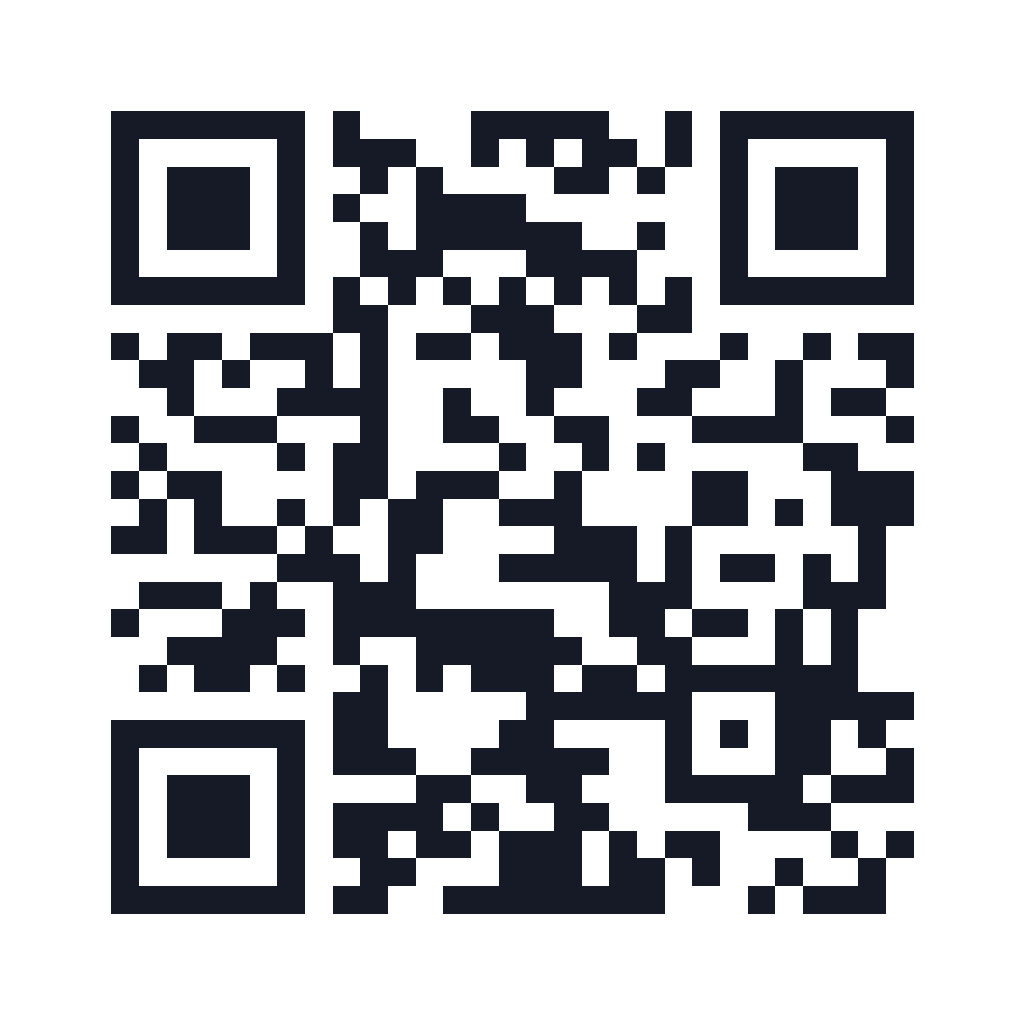
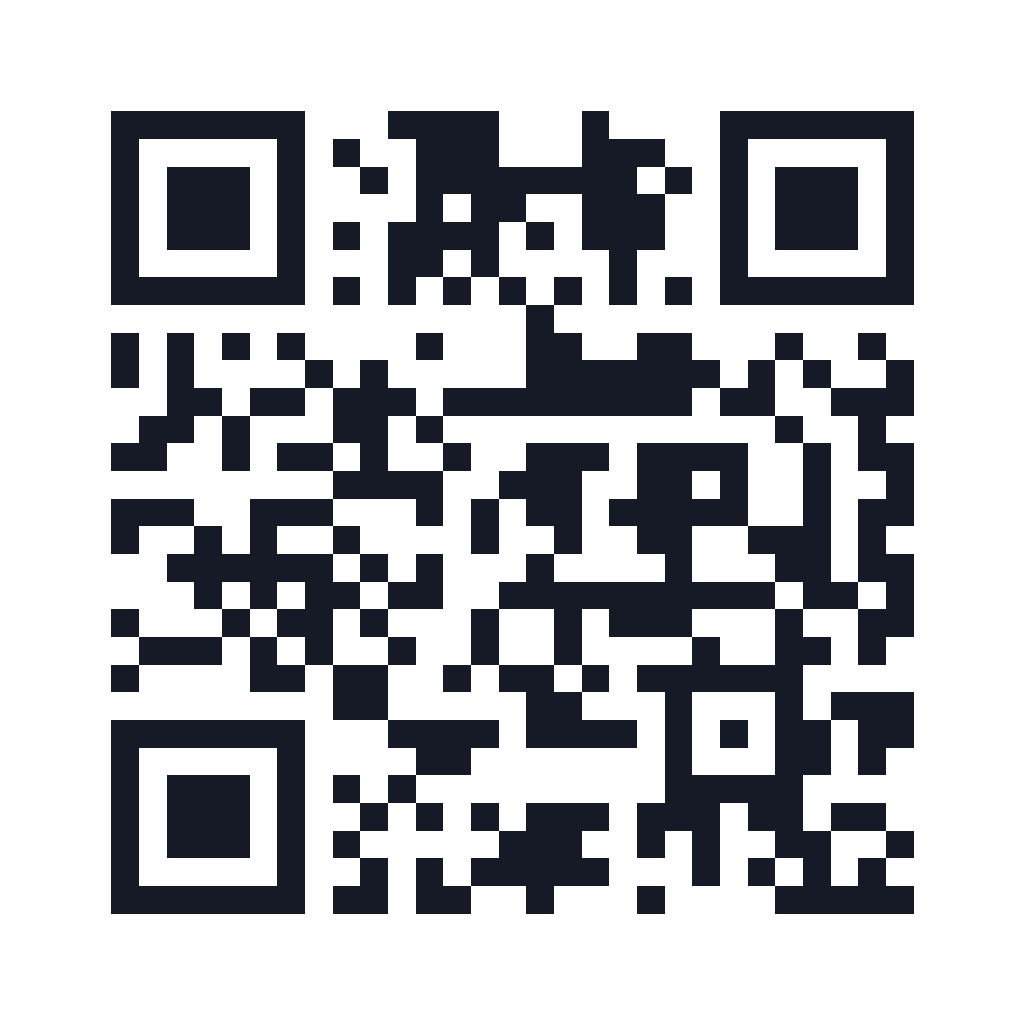
브랜드명 Edulleo(에둘러)로 변경, 배포 경로 /edulleo/
- 앱: 제목·홈·첫 화면·manifest 이름을 Edulleo로, 로고·아이콘 D→E
- 배포 경로 /detour/ → /edulleo/ (저장소 이름 변경, Vite base·manifest·Playwright·SW 주석)
- QR 재생성: https://01044402345o-beep.github.io/edulleo/ (디코드 일치)
- README·PRD·task·목업·시연 QR 슬라이드 표기 변경
- 저장 키·캐시 이름 등 내부 식별자는 유지
- 검증: Codex R1(M1 L1) → R2 미해결 0, vitest 859·E2E 75 통과

diff --git a/mockup/index.html b/mockup/index.html
@@ -3,7 +3,7 @@
 <head>
 <meta charset="utf-8">
 <meta name="viewport" content="width=device-width, initial-scale=1">
-<title>Daejeon Detour · Interactive Mockup</title>
+<title>Edulleo · Interactive Mockup</title>
 <link rel="preconnect" href="https://fonts.googleapis.com">
 <link rel="preconnect" href="https://fonts.gstatic.com" crossorigin>
 <link href="https://fonts.googleapis.com/css2?family=Fraunces:ital,opsz,wght@0,9..144,500;0,9..144,700;1,9..144,500&display=swap" rel="stylesheet">
@@ -333,8 +333,8 @@ button{font:inherit;color:inherit;background:none;border:0;cursor:pointer}
   <aside class="side">
     <div class="brand">
       <div class="mark">
-        <div class="logo">D</div>
-        <div><h1>Daejeon <i>Detour</i></h1><div class="tag">대전 디투어 · 인터랙티브 목업</div></div>
+        <div class="logo">E</div>
+        <div><h1>Edulleo <i>Daejeon</i></h1><div class="tag">Edulleo(에둘러) · 인터랙티브 목업</div></div>
       </div>
       <div class="ver"><span class="chip-s g">DEMO v0.1</span><span class="chip-s">원도심 코스</span><span class="chip-s">EN · JA · ZH</span></div>
     </div>
@@ -559,13 +559,13 @@ const topbar=(title,right='')=>`<div class="topbar"><button class="icb" data-a="
 
 const R={};
 R.lang=()=>`<div class="lang-hero"><div class="glow"></div><div class="glow2"></div>${status(true)}<div class="in">
-  <div class="logo">D</div><div class="nm">Daejeon<br><i>Detour</i></div><div class="sub">${t('welcome')}</div>
+  <div class="logo">E</div><div class="nm">Edulleo<br><i>Daejeon</i></div><div class="sub">${t('welcome')}</div>
   <div class="lang-list"><div style="font-size:12px;font-weight:700;letter-spacing:1.4px;color:#8f97ab;margin-bottom:4px">${t('chooseLang').toUpperCase()}</div>
   ${Object.entries(LANGS).map(([k,v])=>`<button class="lang-opt ${S.lang===k?'on':''}" data-a="pickLang" data-l="${k}"><span class="fl">${v.f}</span><span><div class="a">${v.a}</div><div class="b2">${v.b}</div></span><span class="ck"></span></button>`).join('')}
   <button class="btn b-acc" style="margin-top:10px" data-a="go" data-to="home" data-log="'${LANGS[S.lang].a}'로 시작 → 홈">${t('start')} →</button></div></div></div>`;
 
 R.home=()=>{const ph=P('ssd').phrases[1];return`${status()}<div class="view">
-  <div class="row pad gap10" style="padding-top:4px"><div style="width:42px;height:42px;border-radius:13px;background:linear-gradient(135deg,#f58a5c,#c24e22);display:grid;place-items:center;color:#fff;font-weight:800">D</div><div><div style="font-weight:800;font-size:16px">Daejeon Detour</div><div class="t-xs">Daejeon, Korea</div></div><div class="sp"></div><span class="pill p-line">${I.pin} Jungang-ro</span></div>
+  <div class="row pad gap10" style="padding-top:4px"><div style="width:42px;height:42px;border-radius:13px;background:linear-gradient(135deg,#f58a5c,#c24e22);display:grid;place-items:center;color:#fff;font-weight:800">E</div><div><div style="font-weight:800;font-size:16px">Edulleo</div><div class="t-xs">Daejeon, Korea</div></div><div class="sp"></div><span class="pill p-line">${I.pin} Jungang-ro</span></div>
   <div class="hello" style="margin-top:20px"><div class="h-xl">${t('hi')}<br>${t('whereTo')}</div></div>
   <div class="search">${I.search}${t('search')}</div>
   <div class="sec"><div class="h-m">${t('pickHub')}</div><button class="lk" data-a="go" data-to="course" data-log="'지도 보기' → 원도심 코스 지도">${t('seeMap')}</button></div>

diff --git a/deck/index.html b/deck/index.html
@@ -3,9 +3,9 @@
 <head>
 <meta charset="utf-8">
 <meta name="viewport" content="width=device-width, initial-scale=1">
-<title>대전 디투어 시연 QR</title>
+<title>Edulleo 시연 QR</title>
 <!-- 시연 슬라이드 1장 (task.md T3.3, PRD F-17). 16:9 고정 비율, 화면 크기에 맞춰 확대·축소.
-     QR 원본: ../app/public/qr.svg (내용 https://01044402345o-beep.github.io/detour/, reviews/T3.3_qr.md 디코드 검증)
+     QR 원본: ../app/public/qr.svg (내용 https://01044402345o-beep.github.io/edulleo/, reviews/T3.3_qr.md 디코드 검증)
      외부 글꼴·스크립트 없음 — 시연장 네트워크가 없어도 그대로 열림. 색은 app/src/styles/tokens.css 값. -->
 <style>
   :root {
@@ -42,16 +42,16 @@
 </script>
 </head>
 <body>
-  <main class="slide" aria-label="대전 디투어 시연 접속 안내">
+  <main class="slide" aria-label="Edulleo 시연 접속 안내">
     <section>
       <div class="eyebrow">지역문제 해결 아이디어 · 시연</div>
-      <h1>대전 디투어</h1>
-      <div class="en">Daejeon Detour</div>
+      <h1>Edulleo</h1>
+      <div class="en">에둘러 · Daejeon walks</div>
       <p class="tagline">외국인 방문객용 대전 원도심 동선·주문 카드·현장 한국어 웹앱</p>
-      <p class="url"><small>휴대폰으로 QR을 찍거나 주소를 입력하세요</small>https://01044402345o-beep.github.io/detour/</p>
+      <p class="url"><small>휴대폰으로 QR을 찍거나 주소를 입력하세요</small>https://01044402345o-beep.github.io/edulleo/</p>
     </section>
     <figure class="qr">
-      <img src="../app/public/qr.svg" alt="QR 코드: https://01044402345o-beep.github.io/detour/">
+      <img src="../app/public/qr.svg" alt="QR 코드: https://01044402345o-beep.github.io/edulleo/">
       <p>카메라로 스캔 → 바로 체험</p>
     </figure>
   </main>

diff --git a/app/playwright.config.ts b/app/playwright.config.ts
@@ -1,7 +1,7 @@
 import { defineConfig } from '@playwright/test';
 
 // Phase 2 E2E (coordinator 담당, task.md 0.1절·Phase 2 E2E).
-// - 대상: `npm run build`(base /detour/) 후 `vite preview`
+// - 대상: `npm run build`(base /edulleo/) 후 `vite preview`
 // - 브라우저: 설치된 Microsoft Edge(channel msedge). Playwright 브라우저는 내려받지 않습니다.
 // - 뷰포트: 기본 390×844(전 시나리오) / 360×780(전 시나리오) / 430×932(시나리오 1·5만) / 데스크톱 1280×800(/report만)
 // - 각 시나리오는 3개 언어(en·ja·zh)마다 따로 돌고, 음성(TTS·STT)은 e2e/speechMock.ts의 목을 씁니다.
@@ -24,7 +24,7 @@ export default defineConfig({
   expect: { timeout: 7_000 },
   reporter: [['list'], ['json', { outputFile: 'test-results/e2e.json' }]],
   use: {
-    baseURL: 'http://localhost:4173/detour/',
+    baseURL: 'http://localhost:4173/edulleo/',
     trace: 'retain-on-failure',
     screenshot: 'only-on-failure',
     // Phase 3: 서비스 워커(오프라인 프리캐시) 동작 허용
@@ -32,7 +32,7 @@ export default defineConfig({
   },
   webServer: {
     command: 'npm run build && npm run preview -- --port 4173 --strictPort',
-    url: 'http://localhost:4173/detour/',
+    url: 'http://localhost:4173/edulleo/',
     reuseExistingServer: true,
     timeout: 180_000,
   },

diff --git a/app/src/i18n/hardcodeCheck.test.ts b/app/src/i18n/hardcodeCheck.test.ts
@@ -41,7 +41,7 @@ describe('findHardcoded 규칙', () => {
     ).toEqual([]);
     expect(check("const u = c === '인분';", 'src/ui/x.ts')).toEqual([]);
     expect(check('const A = () => <p>🐢 0.75× · → ₩{1000}</p>;')).toEqual([]);
-    expect(check('const A = () => <h1>Daejeon Detour</h1>;')).toEqual([]);
+    expect(check('const A = () => <h1>Edulleo</h1>;')).toEqual([]);
   });
 
   it('t() 호출·import 경로·타입 리터럴·비가시 문자열은 넘긴다', () => {
@@ -111,7 +111,7 @@ describe('R1 M-2 회귀: 변수·속성·hook 경로', () => {
       "logEvent({ type: 'place_view' });",
       "console.warn('Missing key x.');",
       "throw new Error('Store is not ready.');",
-      "const name = 'Daejeon Detour';",
+      "const name = 'Edulleo';",
       "const lang = 'ko-KR';",
     ].join('\n');
     expect(check(src)).toEqual([]);

diff --git a/app/src/sw/sw.ts b/app/src/sw/sw.ts
@@ -40,7 +40,7 @@ cleanupOutdatedCaches();
 // 업데이트 때는 새 워커가 SKIP_WAITING 전까지 대기하므로(토스트) 이 호출이 교체를 앞당기지 않습니다.
 clientsClaim();
 
-// HashRouter라 문서 요청은 /detour/ 또는 /detour/index.html 뿐 — 오프라인에서도 앱 셸로 답합니다.
+// HashRouter라 문서 요청은 /edulleo/ 또는 /edulleo/index.html 뿐 — 오프라인에서도 앱 셸로 답합니다.
 registerRoute(new NavigationRoute(createHandlerBoundToURL('index.html')));
 
 // 글꼴 CSS: 캐시 먼저 보여 주고 뒤에서 갱신

diff --git a/app/src/screens/Home/index.tsx b/app/src/screens/Home/index.tsx
@@ -54,10 +54,10 @@ export default function HomeScreen() {
     <section className="screen home-screen" data-testid="screen-home">
       <header className="home-brand">
         <div className="home-brand__logo" aria-hidden="true">
-          {'D'}
+          {'E'}
         </div>
         <div>
-          <div className="home-brand__name">{'Daejeon Detour'}</div>
+          <div className="home-brand__name">{'Edulleo'}</div>
           <div className="home-xs">{t('home.location')}</div>
         </div>
         <span className="home-brand__sp" />

diff --git a/app/src/screens/Lang/index.tsx b/app/src/screens/Lang/index.tsx
@@ -33,12 +33,12 @@ export default function LangScreen() {
       <div className="lang-glow2" aria-hidden="true" />
       <div className="lang-in">
         <div className="lang-logo" aria-hidden="true">
-          {'D'}
+          {'E'}
         </div>
         <h1 className="lang-name">
-          {'Daejeon'}
+          {'Edulleo'}
           <br />
-          <i>{'Detour'}</i>
+          <i>{'Daejeon'}</i>
         </h1>
         <p className="lang-sub">
           {t('lang.welcomeTitle')}

diff --git a/app/src/App.tsx b/app/src/App.tsx
@@ -4,7 +4,7 @@ import { AppRoutes } from './router/AppRoutes';
 import { getTts } from './speech/tts';
 
 /**
- * 앱 루트 (T2.0). GitHub Pages(/detour/)에서 새로고침해도 열리도록 HashRouter를 씁니다.
+ * 앱 루트 (T2.0). GitHub Pages(/edulleo/)에서 새로고침해도 열리도록 HashRouter를 씁니다.
  * TTS 계약 ④: 페이지 숨김·이탈 시 자동 취소(bindAutoCancel)는 여기서 1회만 등록합니다.
  */
 export default function App() {

diff --git a/app/vite.config.ts b/app/vite.config.ts
@@ -3,8 +3,8 @@ import { defineConfig, type Plugin } from 'vite';
 import react from '@vitejs/plugin-react';
 import { VitePWA } from 'vite-plugin-pwa';
 
-// 배포 URL: https://01044402345o-beep.github.io/detour/ (PRD 8장)
-const BASE = '/detour/';
+// 배포 URL: https://01044402345o-beep.github.io/edulleo/ (PRD 8장)
+const BASE = '/edulleo/';
 
 /**
  * manifest는 public/manifest.webmanifest(정적 파일)를 씁니다. 플러그인 manifest 생성을 끄면 <link>도

diff --git a/app/index.html b/app/index.html
@@ -5,7 +5,7 @@
     <meta name="viewport" content="width=device-width, initial-scale=1.0, viewport-fit=cover" />
     <meta name="theme-color" content="#ee6a3c" />
     <link rel="icon" type="image/svg+xml" href="%BASE_URL%favicon.svg" />
-    <title>Daejeon Detour</title>
+    <title>Edulleo</title>
     <link rel="preconnect" href="https://fonts.googleapis.com" />
     <link rel="preconnect" href="https://fonts.gstatic.com" crossorigin />
     <link

diff --git a/app/e2e/p3-offline.spec.ts b/app/e2e/p3-offline.spec.ts
@@ -56,7 +56,7 @@ for (const lang of LANGS) {
       const reg = await navigator.serviceWorker.getRegistration();
       return { scope: reg?.scope ?? null, controlled: !!navigator.serviceWorker.controller };
     });
-    expect(sw.scope).toMatch(/\/detour\/$/);
+    expect(sw.scope).toMatch(/\/edulleo\/$/);
     expect(sw.controlled).toBe(true);
 
     await context.setOffline(true);

diff --git a/app/src/i18n/hardcodeCheck.ts b/app/src/i18n/hardcodeCheck.ts
@@ -35,10 +35,9 @@ export const EXEMPT_PATHS: readonly { pattern: RegExp; reason: string }[] = [
 
 /** 상호명·서비스명 (PRD 4장). 화면 언어와 관계없이 그대로 씁니다. */
 export const BRAND_TERMS: readonly string[] = [
-  'Daejeon Detour',
+  'Edulleo',
   'Daejeon',
-  'Detour',
-  'D',
+  'E',
   'NAVER',
   '성심당',
   '성심당 본점',
